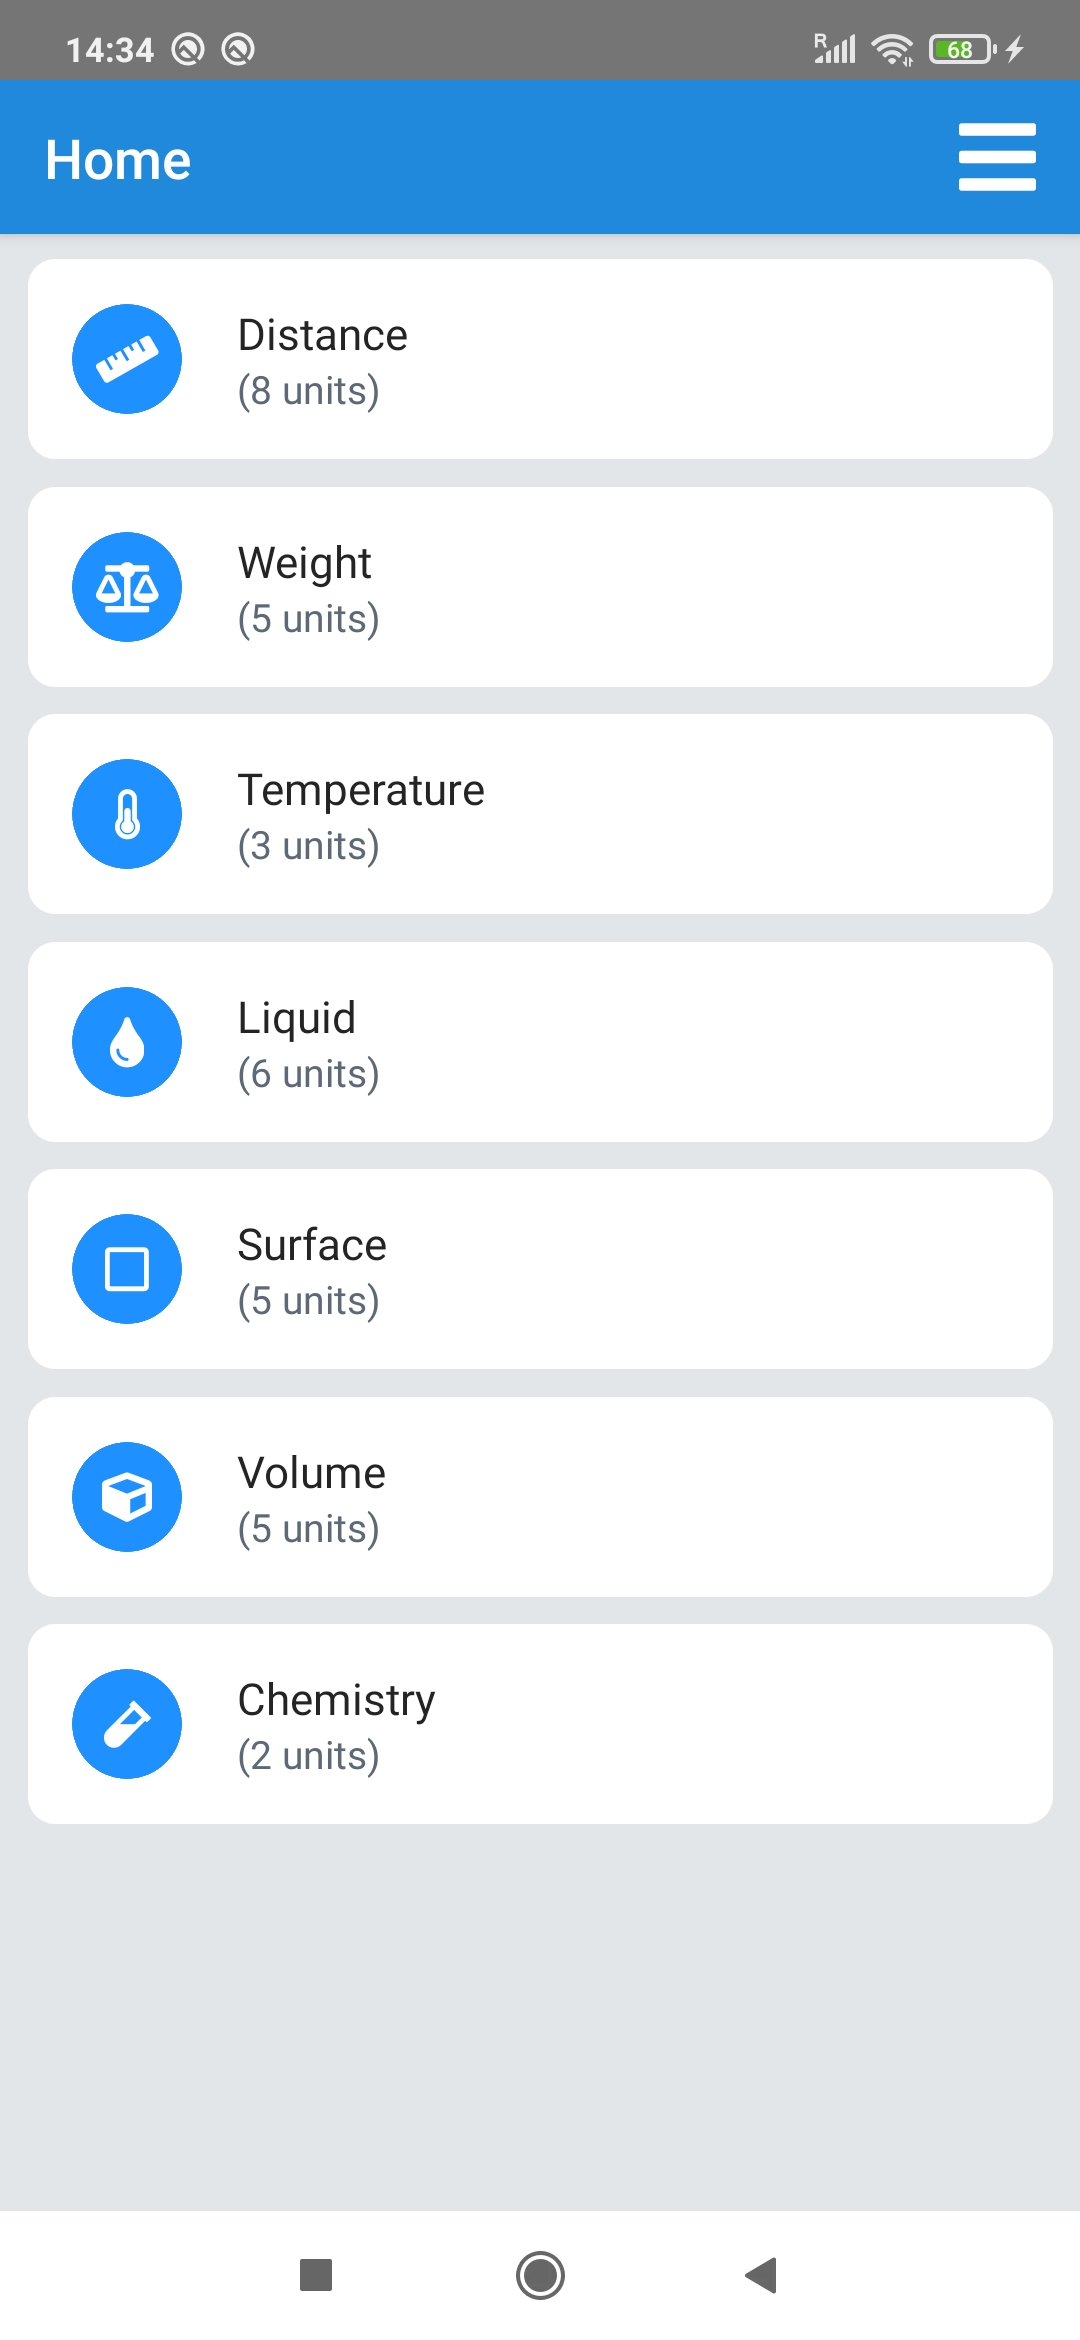
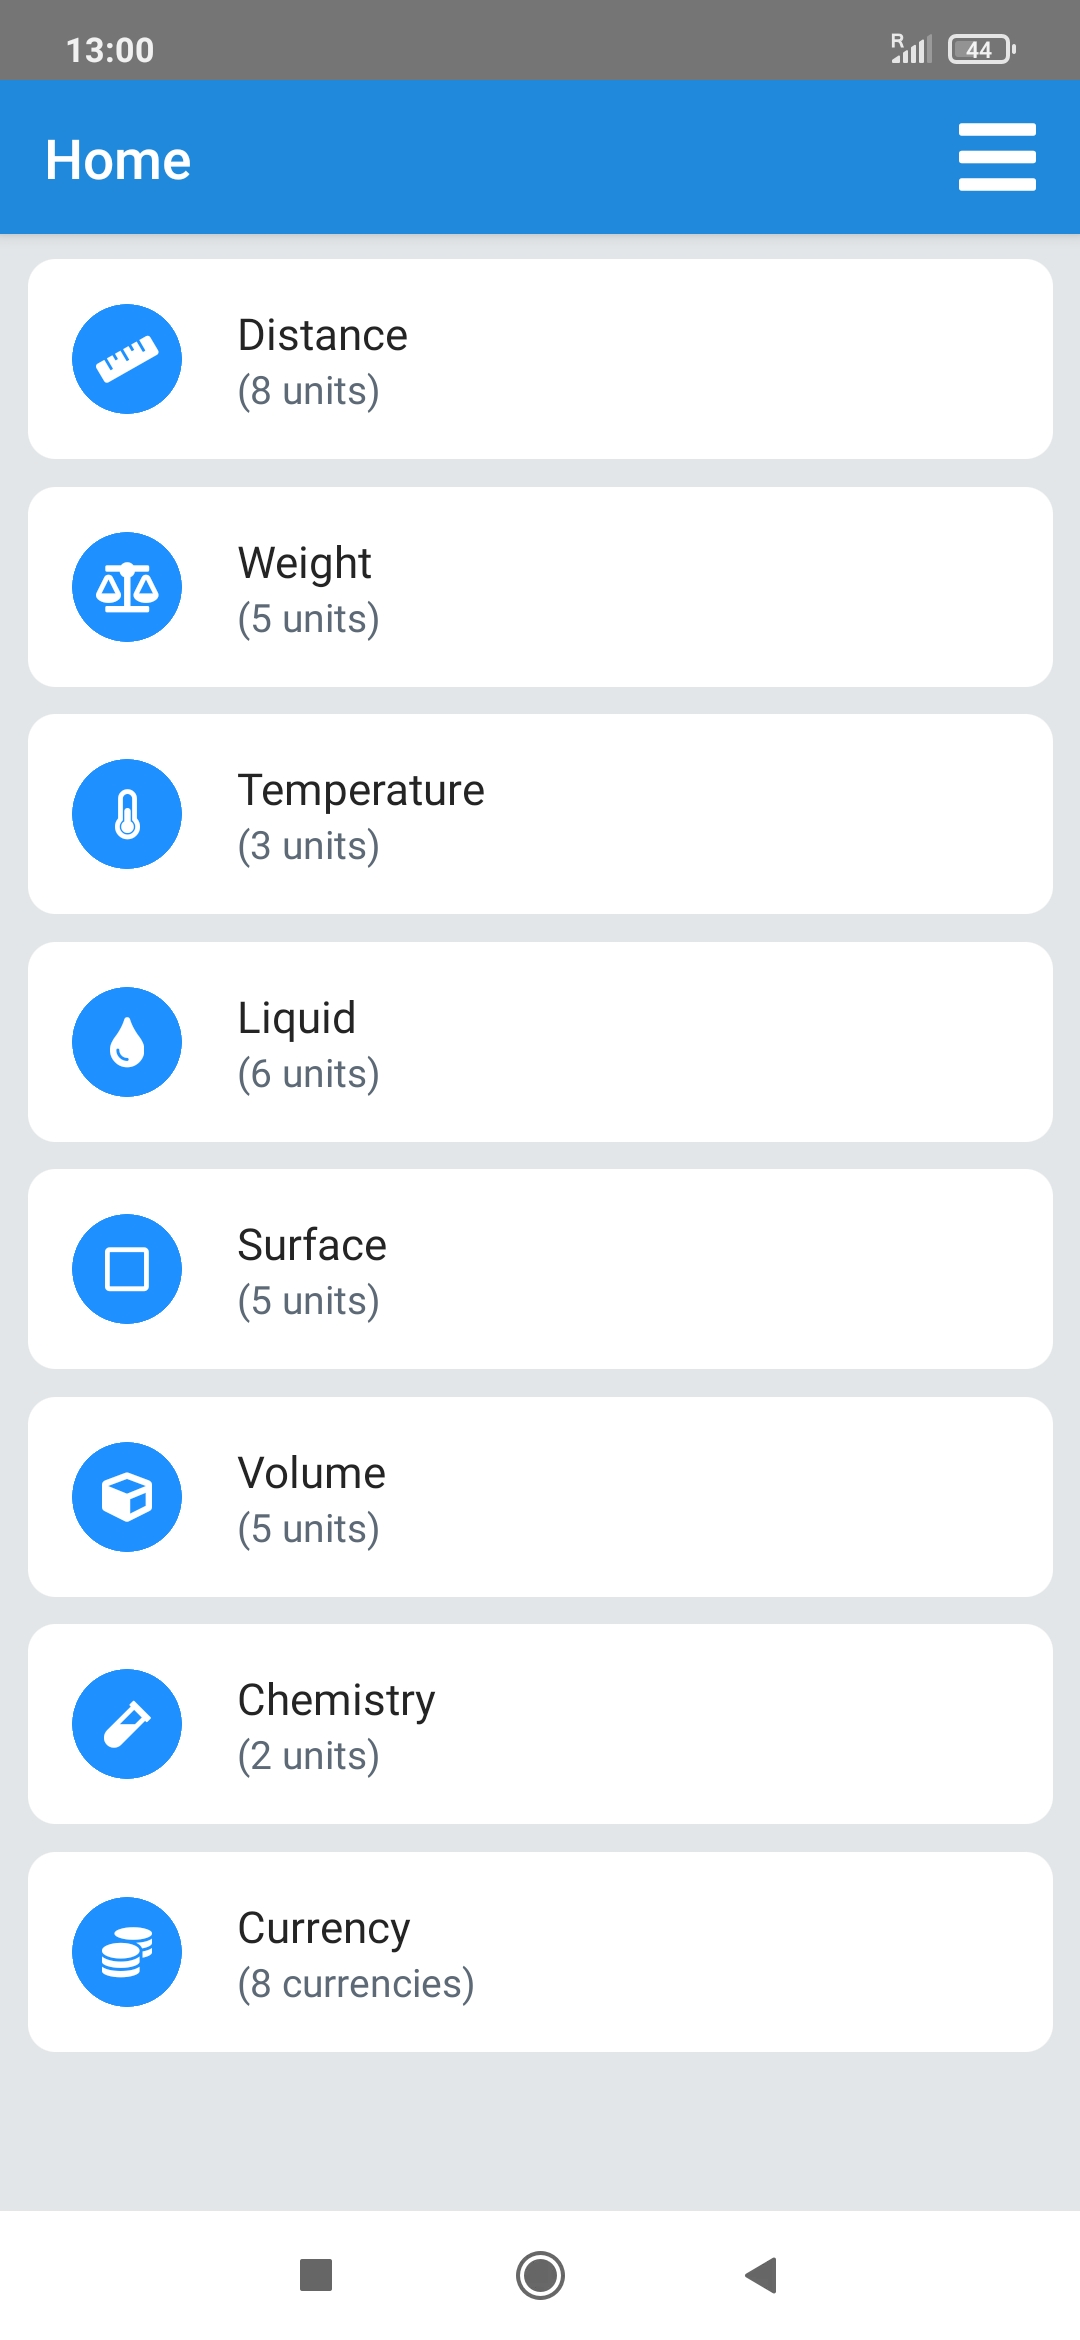
Update screenshots

Changed region(s): [[0.0, 0.7799, 0.9778, 0.9047], [0.7639, 0.0, 0.9472, 0.0312], [0.1222, 0.0, 0.2444, 0.0312]]

diff --git a/README.md b/README.md
@@ -6,11 +6,12 @@ Available languages : 🇬🇧, 🇫🇷, 🇪🇸
 [<img alt='Get it on Google Play' src='https://play.google.com/intl/en_us/badges/static/images/badges/en_badge_web_generic.png' height="75"/>](https://play.google.com/store/apps/details?id=com.unitstool)
 [<img src="https://fdroid.gitlab.io/artwork/badge/get-it-on.png" height="75">](https://f-droid.org/packages/com.unitstool/)
 
-<div style="display: flex; flex-direction: row; justify-content: space-between;">
-    <img alt="home" src="screenshot/home.png" style="width: 24%; height: 24%;"/>
-    <img alt="languages" src="screenshot/languages.png" style="width: 24%; height: 24%;"/>
-    <img alt="temperature" src="screenshot/category.png" style="width: 24%; height: 24%;"/>
-    <img alt="temperature" src="screenshot/darkmode.png" style="width: 24%; height: 24%;"/>
+<div style="display: flex; flex-direction: row; flex-wrap: wrap; justify-content: space-between;">
+    <img alt="home" src="screenshot/home.png" style="width: 19%; height: 19%;"/>
+    <img alt="languages" src="screenshot/languages.png" style="width: 19%; height: 19%;"/>
+    <img alt="category" src="screenshot/category.png" style="width: 19%; height: 19%;"/>
+    <img alt="currency" src="screenshot/currency.png" style="width: 19%; height: 19%;"/>
+    <img alt="temperature" src="screenshot/darkmode.png" style="width: 19%; height: 19%;"/>
 </div>
 
 ## Privacy
